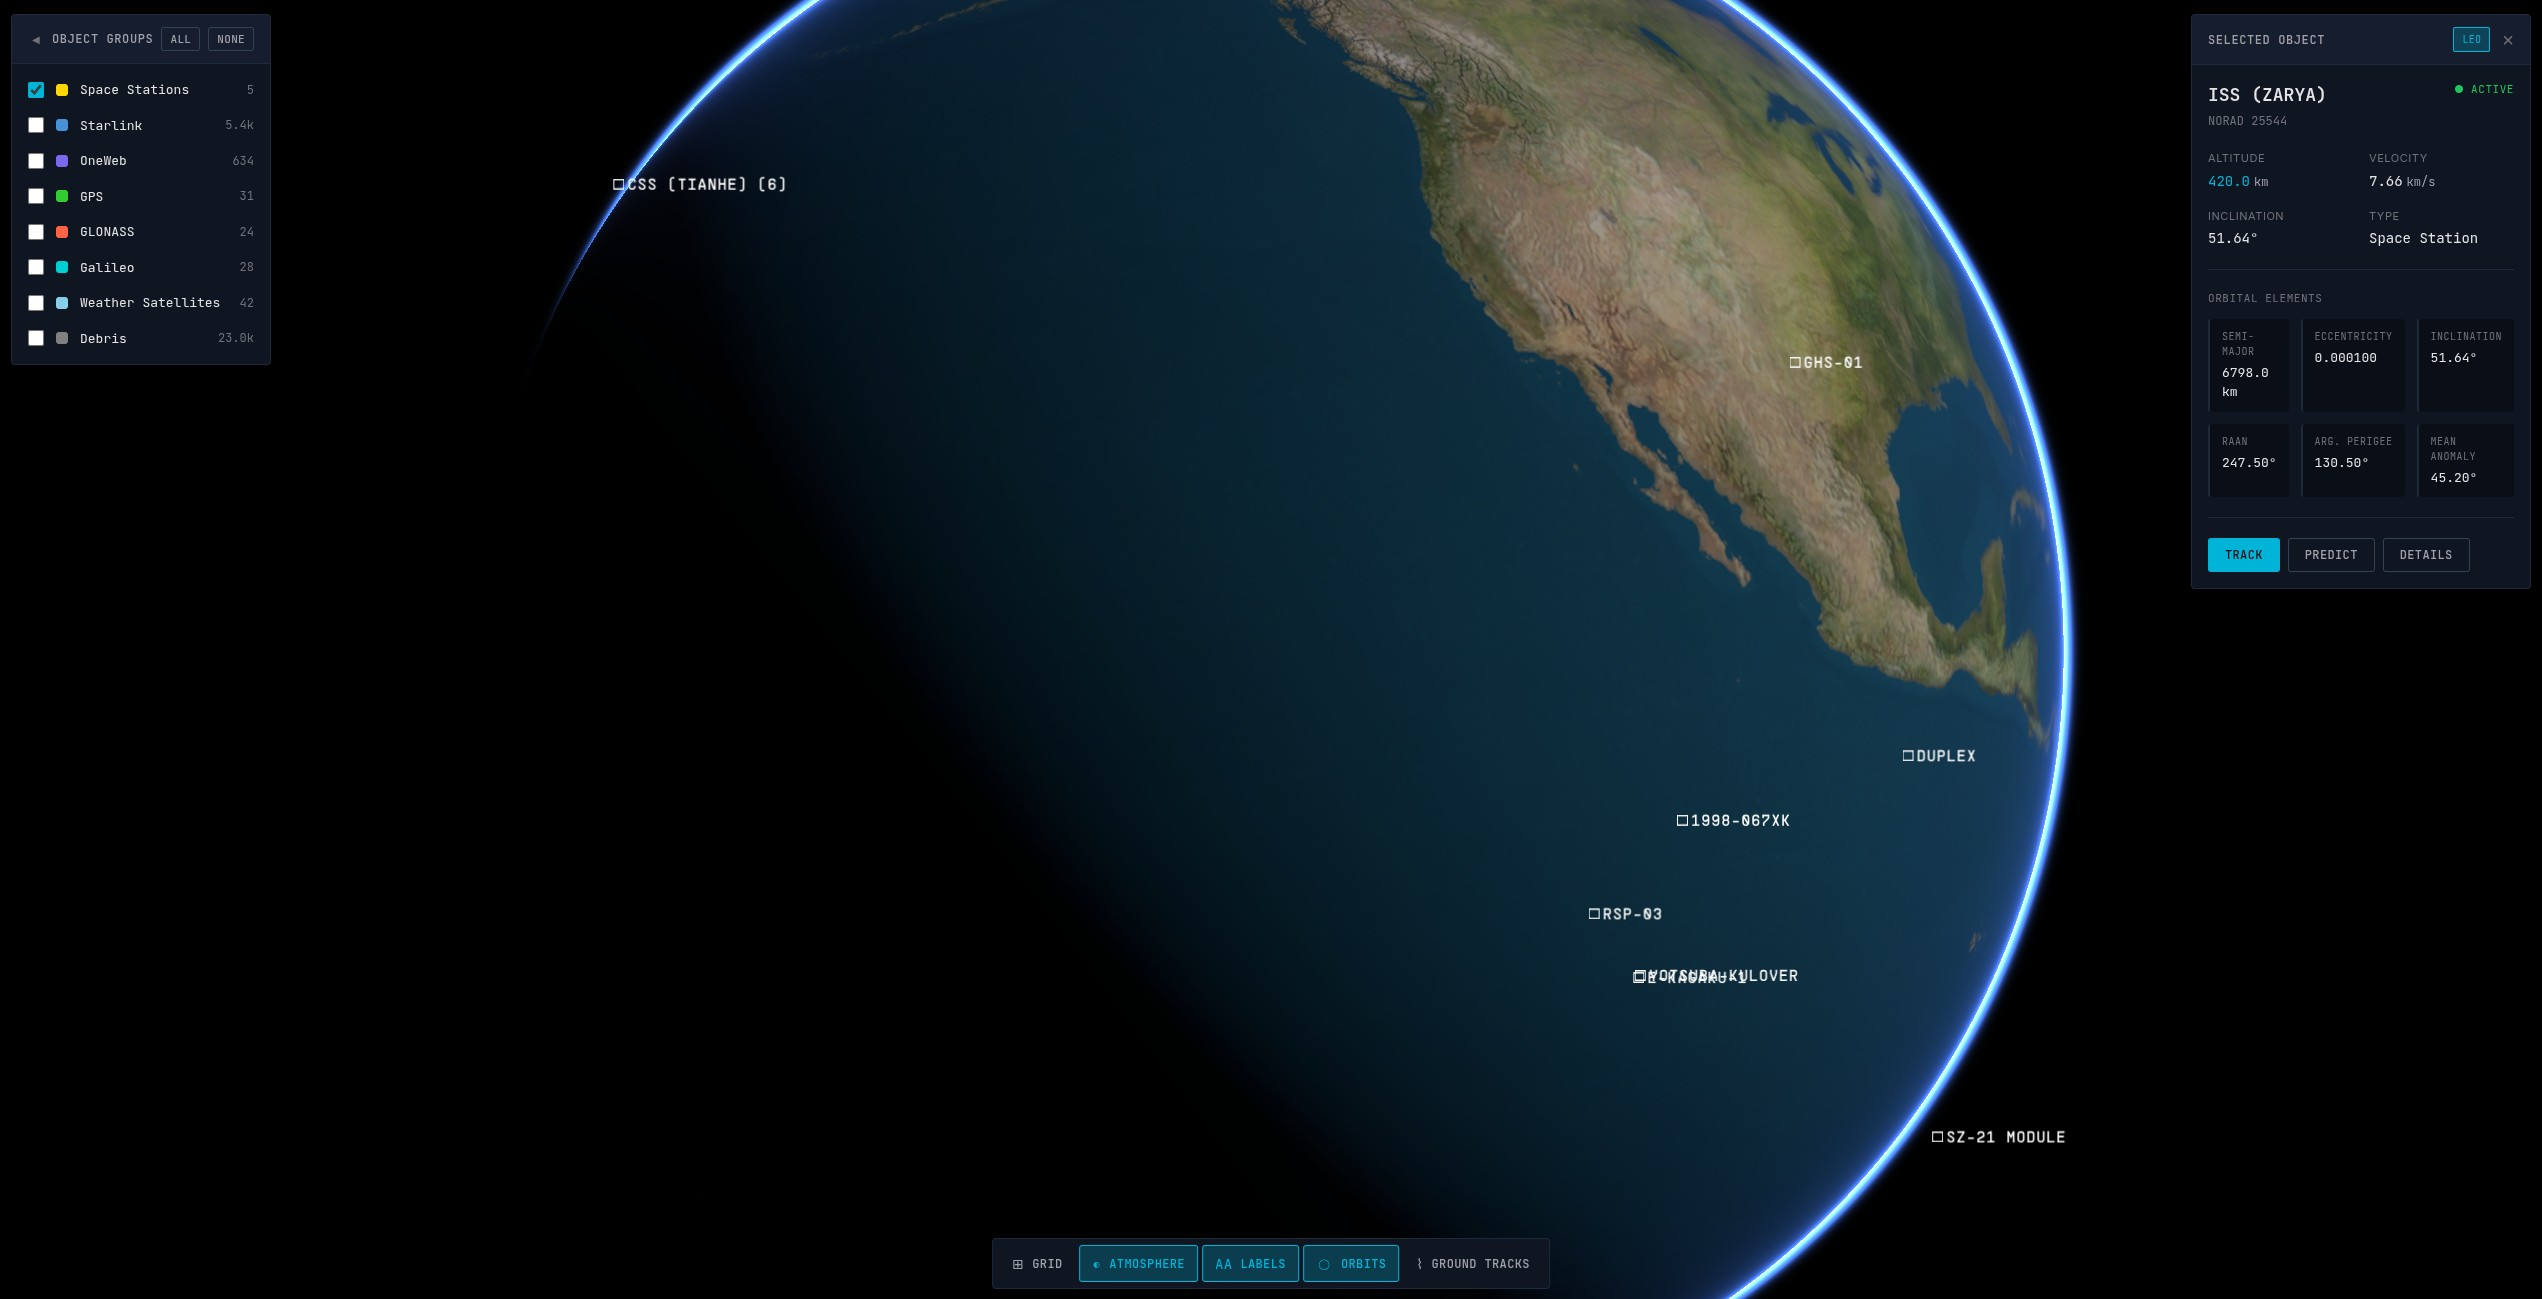
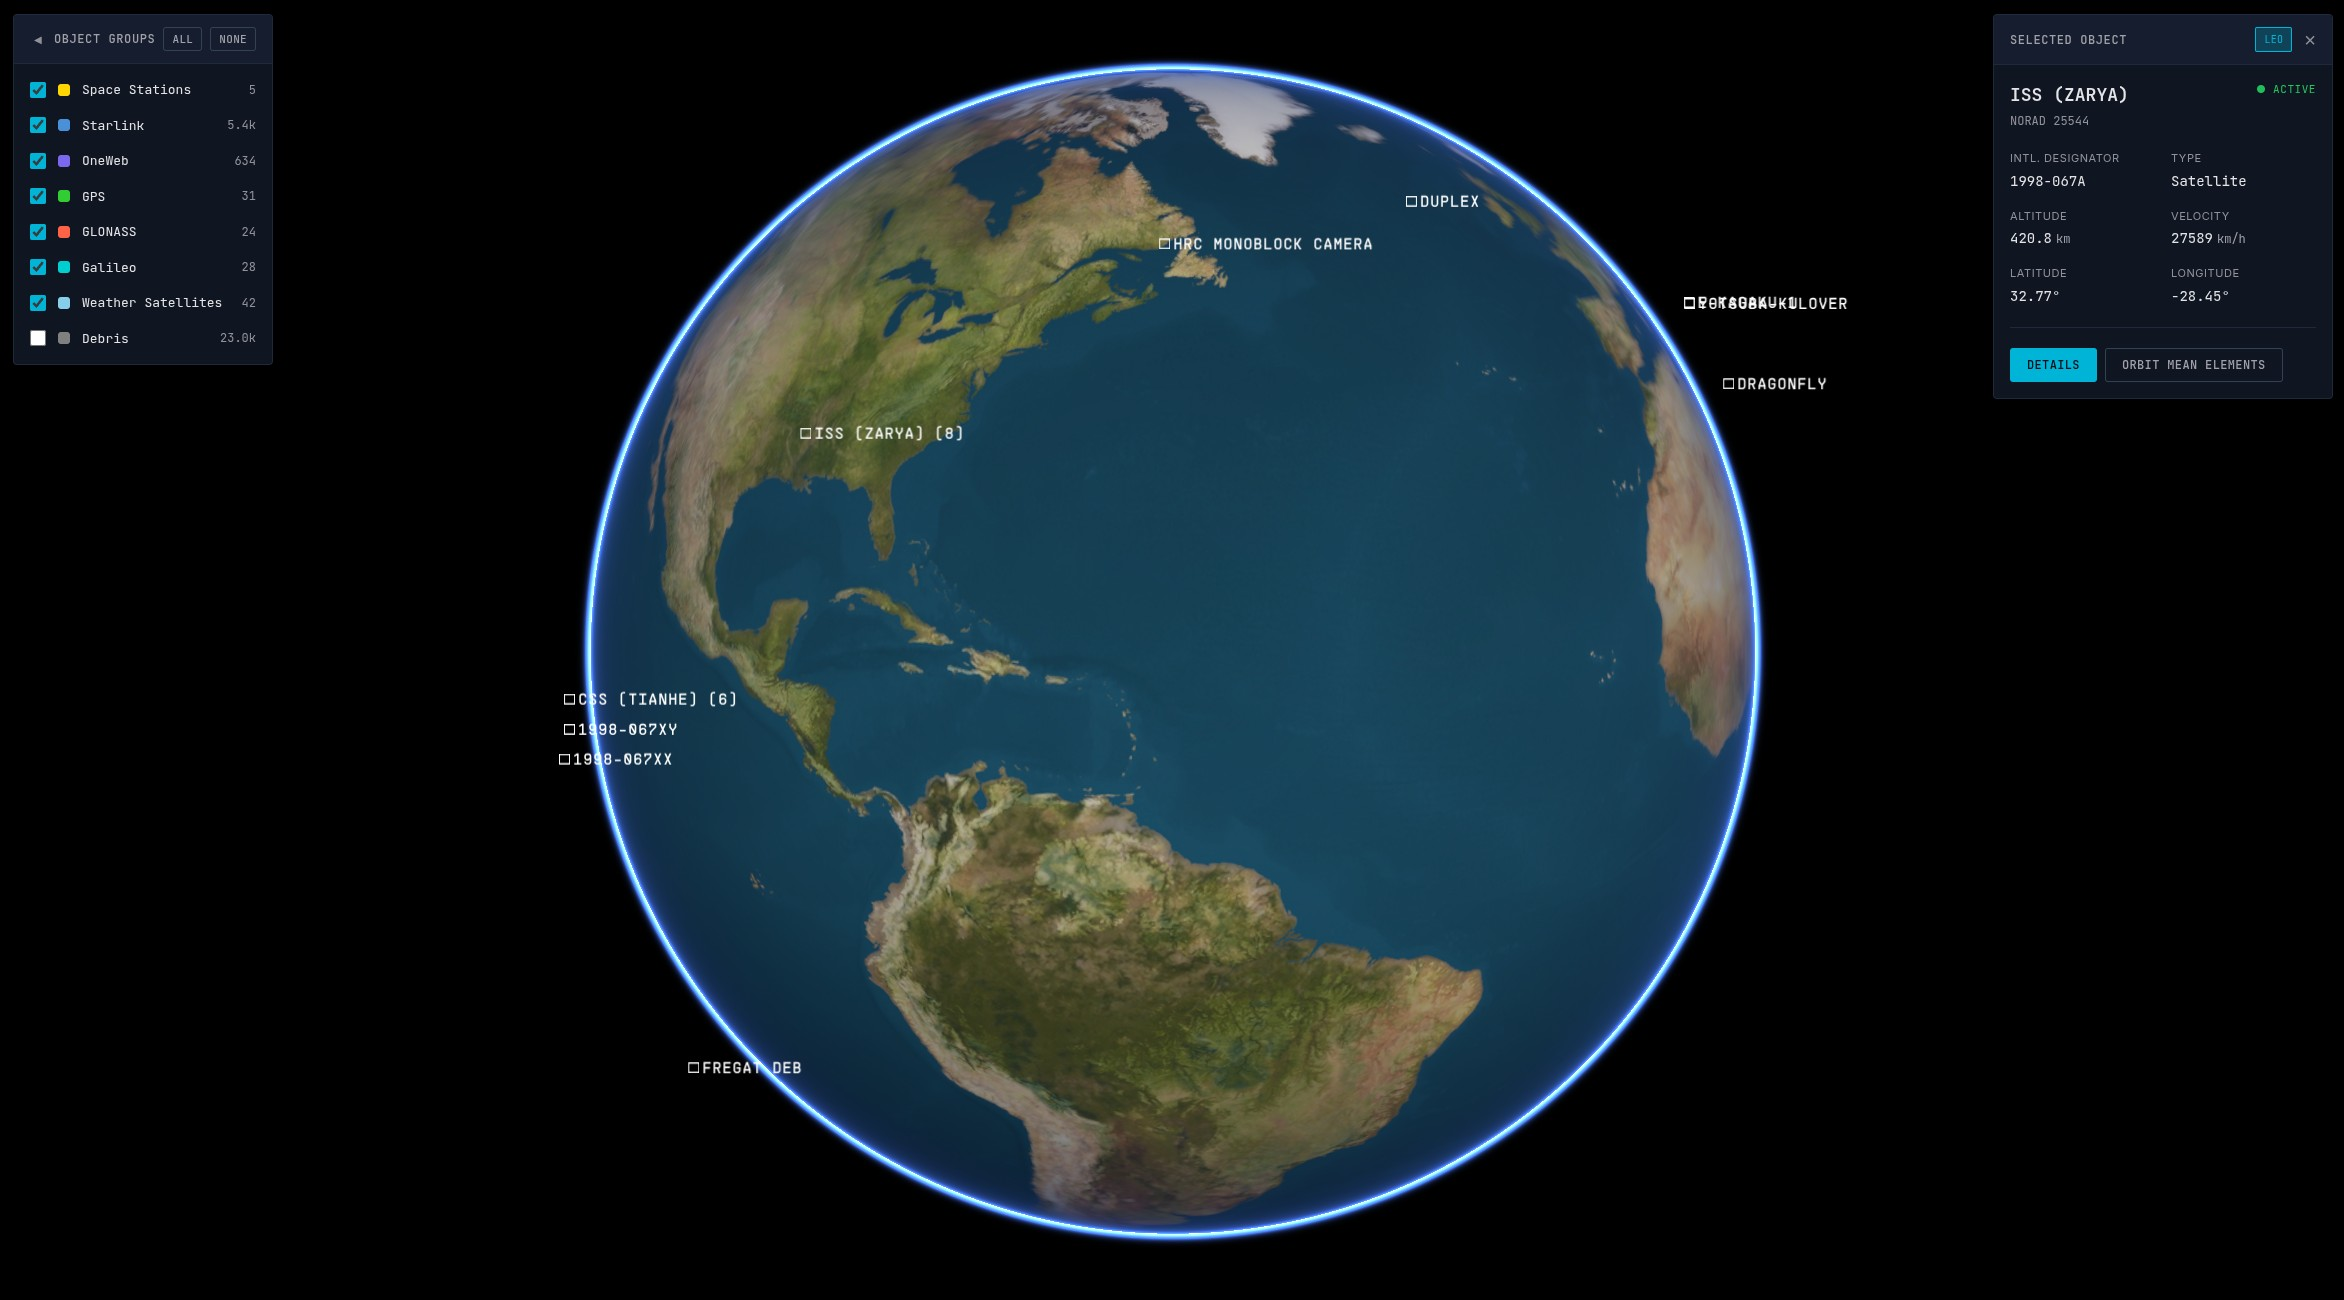
UI updates.

diff --git a/webapp/src/lib/components/InfoPanel.svelte b/webapp/src/lib/components/InfoPanel.svelte
@@ -60,12 +60,20 @@
 			{#if viewMode === 'details'}
 				<div class="data-grid">
 					<div class="data-item">
+						<span class="data-label">Intl. designator</span>
+						<span class="data-value">{$selectedObject.internationalDesignator}</span>
+					</div>
+					<div class="data-item">
+						<span class="data-label">Type</span>
+						<span class="data-value">{getObjectTypeLabel($selectedObject.objectType)}</span>
+					</div>
+					<div class="data-item">
 						<span class="data-label">Altitude</span>
 						<span class="data-value">{formatNumber($selectedObject.altitude, 1)}<span class="data-unit">km</span></span>
 					</div>
 					<div class="data-item">
 						<span class="data-label">Velocity</span>
-						<span class="data-value">{formatNumber($selectedObject.velocity, 2)}<span class="data-unit">km/s</span></span>
+						<span class="data-value">{formatNumber($selectedObject.velocity * 3600, 0)}<span class="data-unit">km/h</span></span>
 					</div>
 					<div class="data-item">
 						<span class="data-label">Latitude</span>
@@ -75,14 +83,6 @@
 						<span class="data-label">Longitude</span>
 						<span class="data-value">{formatNumber($selectedObject.longitude, 2)}°</span>
 					</div>
-					<div class="data-item">
-						<span class="data-label">Inclination</span>
-						<span class="data-value">{formatNumber($selectedObject.inclination, 2)}°</span>
-					</div>
-					<div class="data-item">
-						<span class="data-label">Type</span>
-						<span class="data-value">{getObjectTypeLabel($selectedObject.objectType)}</span>
-					</div>
 				</div>
 				<!--
 				<div class="orbital-section">
@@ -90,37 +90,30 @@
 				</div>
 				-->
 			{:else}
-				<div class="orbital-section first">
-					<div class="data-grid">
+				<div class="data-grid">
+					<div class="data-item">
 						<span class="data-label">Semi-Major</span>
-						<span class="data-value">{formatNumber($selectedObject.semiMajorAxis, 1)} km</span>
+						<span class="data-value">{formatNumber($selectedObject.semiMajorAxis, 1)}<span class="data-unit">km</span></span>
 					</div>
-					
-					<div class="orbital-grid">
-						<div class="orbital-item">
-							<div class="orbital-label">Semi-Major</div>
-							<div class="orbital-value">{formatNumber($selectedObject.semiMajorAxis, 1)} km</div>
-						</div>
-						<div class="orbital-item">
-							<div class="orbital-label">Eccentricity</div>
-							<div class="orbital-value">{formatNumber($selectedObject.eccentricity, 6)}</div>
-						</div>
-						<div class="orbital-item">
-							<div class="orbital-label">Inclination</div>
-							<div class="orbital-value">{formatNumber($selectedObject.inclination, 2)}°</div>
-						</div>
-						<div class="orbital-item">
-							<div class="orbital-label">RAAN</div>
-							<div class="orbital-value">{formatNumber($selectedObject.raan, 2)}°</div>
-						</div>
-						<div class="orbital-item">
-							<div class="orbital-label">Arg. Perigee</div>
-							<div class="orbital-value">{formatNumber($selectedObject.argOfPerigee, 2)}°</div>
-						</div>
-						<div class="orbital-item">
-							<div class="orbital-label">Mean Anomaly</div>
-							<div class="orbital-value">{formatNumber($selectedObject.meanAnomaly, 2)}°</div>
-						</div>
+					<div class="data-item">
+						<span class="data-label">Eccentricity</span>
+						<span class="data-value">{formatNumber($selectedObject.eccentricity, 6)}</span>
+					</div>
+					<div class="data-item">
+						<span class="data-label">Inclination</span>
+						<span class="data-value">{formatNumber($selectedObject.inclination, 2)}°</span>
+					</div>
+					<div class="data-item">
+						<span class="data-label">RAAN</span>
+						<span class="data-value">{formatNumber($selectedObject.raan, 2)}°</span>
+					</div>
+					<div class="data-item">
+						<span class="data-label">Arg. Perigee</span>
+						<span class="data-value">{formatNumber($selectedObject.argOfPerigee, 2)}°</span>
+					</div>
+					<div class="data-item">
+						<span class="data-label">Mean Anomaly</span>
+						<span class="data-value">{formatNumber($selectedObject.meanAnomaly, 2)}°</span>
 					</div>
 				</div>
 			{/if}
@@ -213,27 +206,6 @@
 	@keyframes pulse {
 		0%, 100% { opacity: 1; }
 		50% { opacity: 0.5; }
-	}
-
-	.orbital-section {
-		margin-top: 1.25rem;
-		padding-top: 1.25rem;
-		border-top: 1px solid var(--border-subtle);
-	}
-
-	.orbital-section.first {
-		margin-top: 0;
-		padding-top: 0;
-		border-top: none;
-	}
-
-	.section-title {
-		font-family: var(--font-mono);
-		font-size: 0.6875rem;
-		text-transform: uppercase;
-		letter-spacing: 0.05em;
-		color: var(--text-dim);
-		margin-bottom: 0.75rem;
 	}
 
 	.btn-group {

diff --git a/webapp/src/lib/wasm/types.ts b/webapp/src/lib/wasm/types.ts
@@ -28,7 +28,7 @@ export interface SpaceObjectInterop {
  */
 export function fromInterop(interop: SpaceObjectInterop): SpaceObject {
 	return {
-		id: interop.noradCatalogueId,
+		internationalDesignator: interop.objectId,
 		name: interop.objectName,
 		noradId: interop.noradCatalogueId,
 		objectType: 'satellite', // TODO: Add object type to interop
@@ -47,7 +47,7 @@ export function fromInterop(interop: SpaceObjectInterop): SpaceObject {
 }
 
 export interface SpaceObject {
-	id: number;
+	internationalDesignator: string;
 	name: string;
 	noradId: number;
 	objectType: SpaceObjectType;

diff --git a/webapp/src/routes/+page.svelte b/webapp/src/routes/+page.svelte
@@ -4,7 +4,7 @@
 	import Canvas from '$lib/components/Canvas.svelte';
 	import InfoPanel from '$lib/components/InfoPanel.svelte';
 	import FilterControls from '$lib/components/FilterControls.svelte';
-	import OverlayManager from '$lib/components/OverlayManager.svelte';
+	// import OverlayManager from '$lib/components/OverlayManager.svelte';
 	import { initializeGame, selectObject } from '$lib/stores/game';
 
 	onMount(() => {
@@ -21,7 +21,7 @@
 	<Canvas />
 	<FilterControls />
 	<InfoPanel />
-	<OverlayManager />
+	<!-- <OverlayManager /> -->
 </main>
 
 <style>
